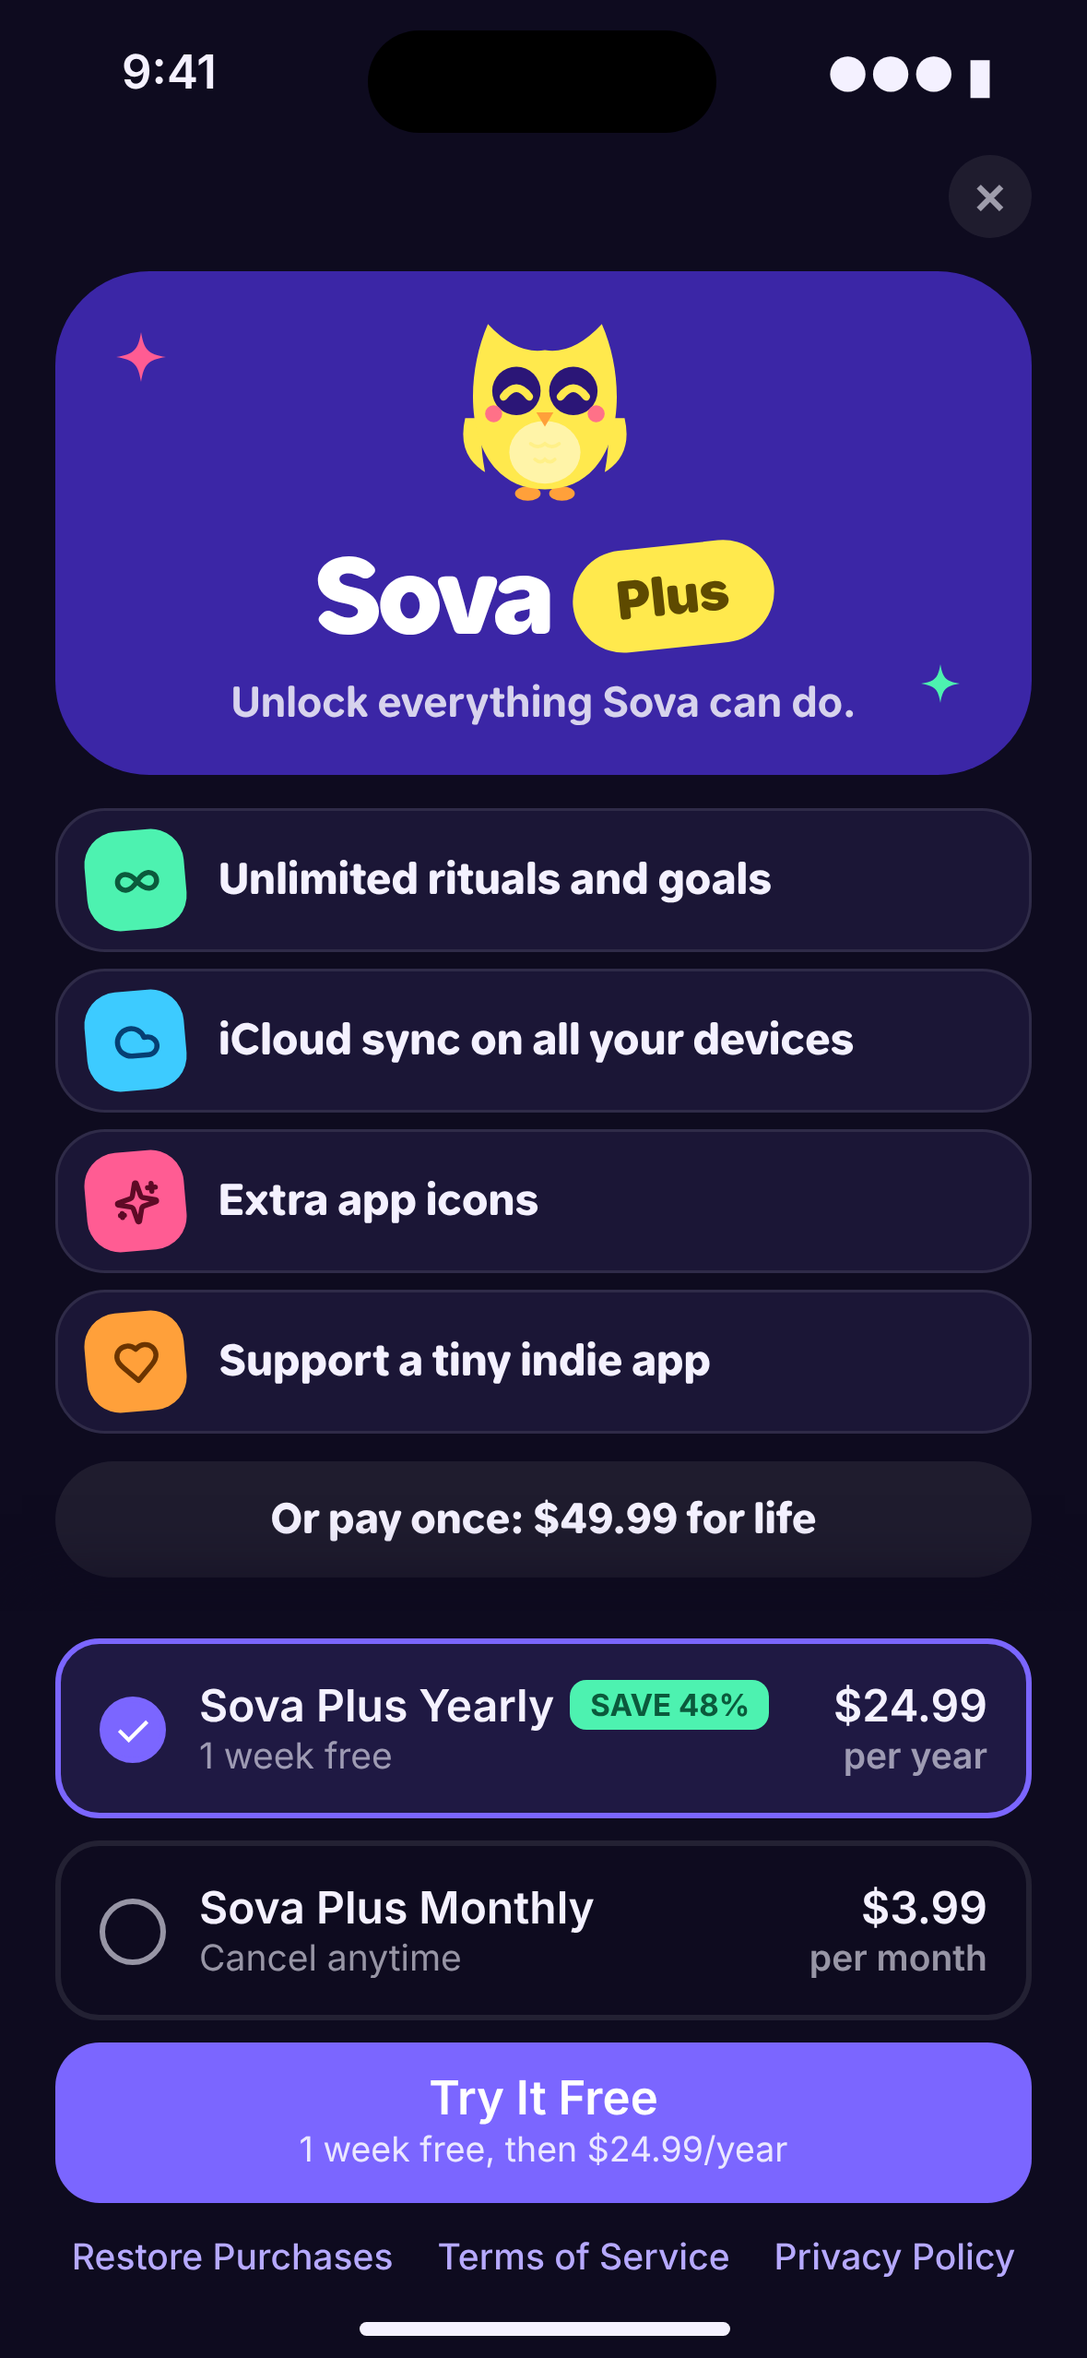
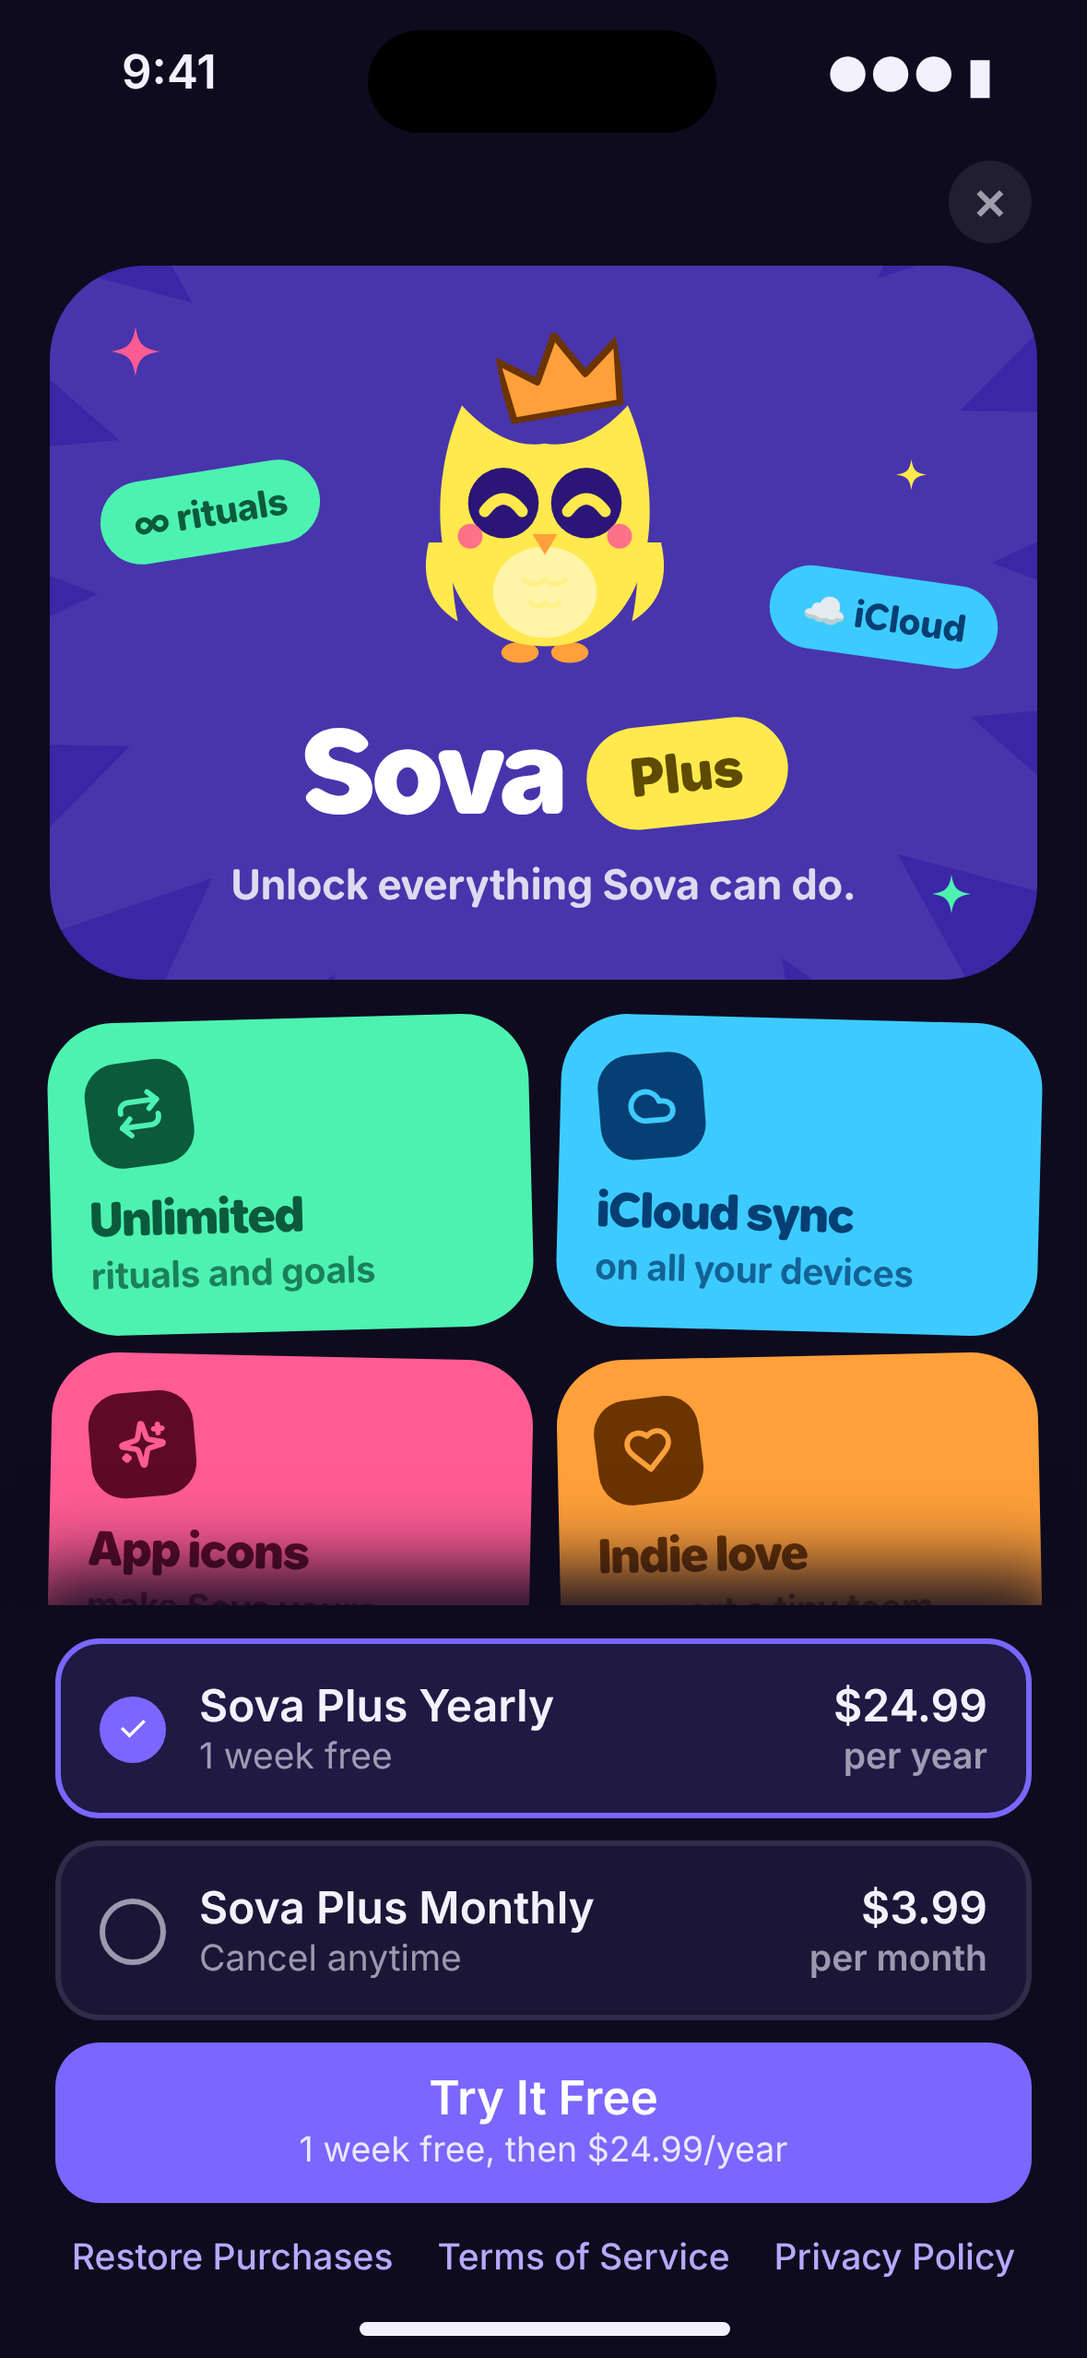
Premium paywall: crowned owl stage, perk tiles, free-week timeline, lifetime card, real trial reminder

diff --git a/Sova/Features/Plus/PlusView.swift b/Sova/Features/Plus/PlusView.swift
@@ -1,21 +1,26 @@
 import SwiftUI
 import StoreKit
 
-/// The Sova Plus paywall: Apple's native subscription controls under an
-/// owl stage and a sticker list of what Plus unlocks.
+/// The Sova Plus paywall: an owl stage with a slowly turning sunburst,
+/// perks as colorful tiles, an honest "how your free week works" timeline,
+/// and Apple's native subscription controls underneath.
 struct PlusView: View {
     var reason: PlusReason = .general
 
     @Environment(PlusStore.self) private var store
     @Environment(\.dismiss) private var dismiss
+    @Environment(\.accessibilityReduceMotion) private var reduceMotion
     @State private var cheers = 0
+    @State private var celebrating = false
+    @State private var spin = false
 
     var body: some View {
         SubscriptionStoreView(productIDs: PlusStore.subscriptionIDs) {
-            header
+            marketing
         }
         .subscriptionStoreControlStyle(.prominentPicker)
         .subscriptionStoreButtonLabel(.multiline)
+        .subscriptionStorePickerItemBackground(Color.surface)
         .storeButton(.visible, for: .restorePurchases)
         .storeButton(.visible, for: .cancellation)
         .storeButton(.visible, for: .policies)
@@ -24,88 +29,255 @@ struct PlusView: View {
         .containerBackground(Color.canvas, for: .subscriptionStoreFullHeight)
         .tint(StickerTone.indigo.fill)
         .onInAppPurchaseCompletion { _, result in
-            if case .success(.success) = result {
+            if case .success(.success(let verification)) = result {
+                celebrating = true
+                if case .verified(let transaction) = verification {
+                    await TrialReminder.scheduleIfNeeded(for: transaction)
+                }
                 await store.refresh()
                 Haptics.celebrate()
                 cheers += 1
-                try? await Task.sleep(for: .milliseconds(700))
+                try? await Task.sleep(for: .milliseconds(1100))
                 dismiss()
             }
         }
-        .onChange(of: store.isPlus) { _, plus in if plus { dismiss() } }
+        // Restoring an earlier purchase: close right away.
+        .onChange(of: store.isPlus) { _, plus in if plus && !celebrating { dismiss() } }
     }
 
-    private var header: some View {
-        VStack(spacing: 18) {
-            ZStack {
-                StickerTone.indigo.fill
-                SparkleDot(color: StickerTone.pink.fill, size: 18)
-                    .frame(maxWidth: .infinity, maxHeight: .infinity, alignment: .topLeading)
-                    .padding(22)
-                SparkleDot(color: StickerTone.mint.fill, size: 14)
-                    .frame(maxWidth: .infinity, maxHeight: .infinity, alignment: .bottomTrailing)
-                    .padding(26)
-                VStack(spacing: 10) {
-                    OwlMark(size: 86, happy: true, bodyColor: StickerTone.yellow.fill, eyeColor: Color(hex: 0x2B1677),
+    private var marketing: some View {
+        VStack(spacing: 14) {
+            stage
+            perks
+            timeline
+            lifetime
+        }
+        .padding(.horizontal, 18)
+        .padding(.top, 8)
+        .padding(.bottom, 4)
+    }
+
+    // MARK: Stage
+
+    private var stage: some View {
+        ZStack {
+            StickerTone.indigo.fill
+
+            StarburstShape(points: 18)
+                .fill(Color.white.opacity(0.07))
+                .frame(width: 560, height: 560)
+                .rotationEffect(.degrees(spin ? 360 : 0))
+                .offset(y: -20)
+
+            SparkleDot(color: StickerTone.pink.fill, size: 18)
+                .frame(maxWidth: .infinity, maxHeight: .infinity, alignment: .topLeading)
+                .padding(22)
+            SparkleDot(color: StickerTone.mint.fill, size: 14)
+                .frame(maxWidth: .infinity, maxHeight: .infinity, alignment: .bottomTrailing)
+                .padding(24)
+            SparkleDot(color: StickerTone.yellow.fill, size: 11)
+                .frame(maxWidth: .infinity, maxHeight: .infinity, alignment: .topTrailing)
+                .padding(.top, 70).padding(.trailing, 40)
+
+            VStack(spacing: 10) {
+                ZStack(alignment: .top) {
+                    OwlMark(size: 96, happy: true, bodyColor: StickerTone.yellow.fill, eyeColor: Color(hex: 0x2B1677),
                             pupilColor: StickerTone.yellow.fill, bellyColor: Color(hex: 0xFFF4A8), celebrate: cheers)
-                        .overlay { SparkleBurst(trigger: cheers) }
-                    HStack(spacing: 8) {
-                        Text("Sova")
-                            .font(.hero(44, weight: .heavy))
-                            .foregroundStyle(.white)
-                        TiltPill(text: "Plus", tone: .yellow, tilt: -6, size: 20)
-                    }
-                    Text(reason.line)
-                        .font(.allo(.subheadline, .bold))
-                        .foregroundStyle(.white.opacity(0.8))
-                        .multilineTextAlignment(.center)
-                        .padding(.horizontal, 24)
+                        .padding(.top, 22)
+                    Crown()
+                        .fill(StickerTone.orange.fill)
+                        .overlay(Crown().stroke(StickerTone.orange.deep, style: StrokeStyle(lineWidth: 2.5, lineJoin: .round)))
+                        .frame(width: 44, height: 30)
+                        .rotationEffect(.degrees(-10))
+                        .offset(x: 6)
                 }
-                .padding(.vertical, 26)
-            }
-            .clipShape(.rect(cornerRadius: 34, style: .continuous))
+                .overlay { SparkleBurst(trigger: cheers, radius: CGSize(width: 150, height: 110)) }
 
-            VStack(spacing: 8) {
-                perk("infinity", String(localized: "Unlimited rituals and goals"), .mint)
-                perk("icloud.fill", String(localized: "iCloud sync on all your devices"), .cyan)
-                perk("app.badge.fill", String(localized: "Extra app icons"), .pink)
-                perk("heart.fill", String(localized: "Support a tiny indie app"), .orange)
-            }
-
-            if let lifetime = store.lifetimeProduct {
-                Button {
-                    Task { await store.buyLifetime() }
-                } label: {
-                    Text("Or pay once: \(lifetime.displayPrice) for life")
-                        .font(.allo(.subheadline, .heavy))
-                        .foregroundStyle(Color.ink)
-                        .frame(maxWidth: .infinity, minHeight: 44)
-                        .background(Color.well, in: .capsule)
+                HStack(spacing: 8) {
+                    Text("Sova")
+                        .font(.hero(42, weight: .heavy))
+                        .tracking(-1.5)
+                        .foregroundStyle(.white)
+                    TiltPill(text: "Plus", tone: .yellow, tilt: -6, size: 20)
                 }
-                .buttonStyle(.pressable)
-                .disabled(store.isPurchasing)
+                Text(reason.line)
+                    .font(.allo(.subheadline, .bold))
+                    .foregroundStyle(.white.opacity(0.82))
+                    .multilineTextAlignment(.center)
+                    .padding(.horizontal, 26)
             }
+            .padding(.vertical, 24)
+
+            // Floating stickers, like the website hero.
+            TiltPill(text: "∞ rituals", tone: .mint, tilt: -9, size: 13)
+                .frame(maxWidth: .infinity, maxHeight: .infinity, alignment: .topLeading)
+                .padding(.top, 74).padding(.leading, 18)
+            TiltPill(text: "☁ iCloud", tone: .cyan, tilt: 8, size: 13)
+                .frame(maxWidth: .infinity, maxHeight: .infinity, alignment: .topTrailing)
+                .padding(.top, 112).padding(.trailing, 14)
         }
-        .padding(.horizontal, 20)
-        .padding(.top, 12)
+        .frame(maxWidth: .infinity)
+        .clipShape(.rect(cornerRadius: 34, style: .continuous))
+        .onAppear {
+            guard !reduceMotion else { return }
+            withAnimation(.linear(duration: 80).repeatForever(autoreverses: false)) { spin = true }
+        }
+        .accessibilityElement(children: .combine)
     }
 
-    private func perk(_ symbol: String, _ text: String, _ tone: StickerTone) -> some View {
-        HStack(spacing: 12) {
-            Image(systemName: symbol)
-                .font(.system(size: 16, weight: .bold))
-                .foregroundStyle(tone.deep)
-                .frame(width: 36, height: 36)
-                .background(tone.fill, in: .rect(cornerRadius: 12, style: .continuous))
-                .rotationEffect(.degrees(-5))
-            Text(text)
-                .font(.allo(size: 16, weight: .heavy, relativeTo: .body))
-                .foregroundStyle(Color.ink)
-            Spacer()
+    // MARK: Perks
+
+    private var perks: some View {
+        LazyVGrid(columns: [GridItem(.flexible(), spacing: 10), GridItem(.flexible(), spacing: 10)], spacing: 10) {
+            perk("infinity", String(localized: "Unlimited"), String(localized: "rituals and goals"), .mint, tilt: -1.5)
+            perk("icloud.fill", String(localized: "iCloud sync"), String(localized: "on all your devices"), .cyan, tilt: 1.5)
+            perk("app.badge.fill", String(localized: "App icons"), String(localized: "make Sova yours"), .pink, tilt: 1.2)
+            perk("heart.fill", String(localized: "Indie love"), String(localized: "support a tiny team"), .orange, tilt: -1.2)
         }
-        .padding(10)
-        .background(Color.surface, in: .rect(cornerRadius: 18, style: .continuous))
-        .overlay(RoundedRectangle(cornerRadius: 18, style: .continuous).strokeBorder(Color.hairline, lineWidth: 1.5))
+    }
+
+    private func perk(_ symbol: String, _ title: String, _ subtitle: String, _ tone: StickerTone, tilt: Double) -> some View {
+        VStack(alignment: .leading, spacing: 10) {
+            Image(systemName: symbol)
+                .font(.system(size: 17, weight: .bold))
+                .foregroundStyle(tone.fill)
+                .frame(width: 38, height: 38)
+                .background(tone.deep, in: .rect(cornerRadius: 12, style: .continuous))
+                .rotationEffect(.degrees(-6))
+            VStack(alignment: .leading, spacing: 1) {
+                Text(title)
+                    .font(.allo(size: 17, weight: .heavy, relativeTo: .headline))
+                    .tracking(-0.4)
+                Text(subtitle)
+                    .font(.allo(size: 13, weight: .bold, relativeTo: .caption))
+                    .opacity(0.75)
+            }
+        }
+        .foregroundStyle(tone.deep)
+        .frame(maxWidth: .infinity, alignment: .leading)
+        .padding(14)
+        .background(tone.fill, in: .rect(cornerRadius: 24, style: .continuous))
+        .rotationEffect(.degrees(tilt))
         .accessibilityElement(children: .combine)
+    }
+
+    // MARK: Free week timeline
+
+    private var timeline: some View {
+        VStack(alignment: .leading, spacing: 0) {
+            MonoCaps(String(localized: "How your free week works"))
+                .padding(.bottom, 12)
+            step(symbol: "lock.open.fill", tone: .yellow, day: String(localized: "Today"),
+                 text: String(localized: "Everything in Plus unlocks."), last: false)
+            step(symbol: "bell.fill", tone: .lilac, day: String(localized: "Day 5"),
+                 text: String(localized: "We'll remind you the trial is ending."), last: false)
+            step(symbol: "star.fill", tone: .mint, day: String(localized: "Day 7"),
+                 text: String(localized: "Your yearly plan starts. Cancel anytime before."), last: true)
+        }
+        .padding(16)
+        .background(Color.surface, in: .rect(cornerRadius: 24, style: .continuous))
+        .overlay(RoundedRectangle(cornerRadius: 24, style: .continuous).strokeBorder(Color.hairline, lineWidth: 1.5))
+    }
+
+    private func step(symbol: String, tone: StickerTone, day: String, text: String, last: Bool) -> some View {
+        HStack(alignment: .top, spacing: 12) {
+            VStack(spacing: 0) {
+                Image(systemName: symbol)
+                    .font(.system(size: 13, weight: .bold))
+                    .foregroundStyle(tone.deep)
+                    .frame(width: 30, height: 30)
+                    .background(tone.fill, in: .circle)
+                if !last {
+                    Capsule()
+                        .fill(Color.well)
+                        .frame(width: 4, height: 18)
+                        .padding(.vertical, 3)
+                }
+            }
+            VStack(alignment: .leading, spacing: 1) {
+                Text(day)
+                    .font(.allo(size: 15, weight: .heavy, relativeTo: .subheadline))
+                    .foregroundStyle(Color.ink)
+                Text(text)
+                    .font(.allo(size: 14, weight: .medium, relativeTo: .footnote))
+                    .foregroundStyle(Color.inkSecondary)
+            }
+            .padding(.top, 5)
+        }
+        .accessibilityElement(children: .combine)
+    }
+
+    // MARK: Lifetime
+
+    @ViewBuilder
+    private var lifetime: some View {
+        if let product = store.lifetimeProduct {
+            Button {
+                Task {
+                    celebrating = true
+                    if await store.buyLifetime() {
+                        Haptics.celebrate()
+                        cheers += 1
+                        try? await Task.sleep(for: .milliseconds(1100))
+                        dismiss()
+                    } else {
+                        celebrating = false
+                    }
+                }
+            } label: {
+                HStack(spacing: 12) {
+                    Text("∞")
+                        .font(.hero(24, weight: .heavy))
+                        .foregroundStyle(StickerTone.yellow.deep)
+                        .frame(width: 40, height: 40)
+                        .background(StickerTone.yellow.fill, in: .rect(cornerRadius: 13, style: .continuous))
+                        .rotationEffect(.degrees(-6))
+                    VStack(alignment: .leading, spacing: 1) {
+                        HStack(spacing: 6) {
+                            Text("Lifetime")
+                                .font(.allo(size: 16, weight: .heavy, relativeTo: .headline))
+                            Text("PAY ONCE")
+                                .font(.allo(size: 10, weight: .heavy, relativeTo: .caption2))
+                                .tracking(1)
+                                .padding(.horizontal, 6)
+                                .padding(.vertical, 3)
+                                .background(StickerTone.mint.fill, in: .capsule)
+                                .foregroundStyle(StickerTone.mint.deep)
+                        }
+                        Text("Keep Plus forever, no subscription")
+                            .font(.allo(size: 13, weight: .medium, relativeTo: .caption))
+                            .foregroundStyle(Color.inkSecondary)
+                    }
+                    Spacer(minLength: 4)
+                    Text(product.displayPrice)
+                        .font(.allo(size: 17, weight: .heavy, relativeTo: .headline))
+                    Image(systemName: "chevron.right")
+                        .font(.system(size: 12, weight: .heavy))
+                        .foregroundStyle(Color.inkTertiary)
+                }
+                .foregroundStyle(Color.ink)
+                .padding(12)
+                .background(Color.surface, in: .rect(cornerRadius: 22, style: .continuous))
+                .overlay(RoundedRectangle(cornerRadius: 22, style: .continuous).strokeBorder(Color.hairline, lineWidth: 1.5))
+            }
+            .buttonStyle(.pressable)
+            .disabled(store.isPurchasing)
+        }
+    }
+}
+
+/// A little crown for the Plus owl.
+private struct Crown: Shape {
+    func path(in r: CGRect) -> Path {
+        var p = Path()
+        p.move(to: CGPoint(x: r.minX + r.width * 0.06, y: r.maxY))
+        p.addLine(to: CGPoint(x: r.minX, y: r.minY + r.height * 0.22))
+        p.addLine(to: CGPoint(x: r.minX + r.width * 0.3, y: r.minY + r.height * 0.55))
+        p.addLine(to: CGPoint(x: r.midX, y: r.minY))
+        p.addLine(to: CGPoint(x: r.maxX - r.width * 0.3, y: r.minY + r.height * 0.55))
+        p.addLine(to: CGPoint(x: r.maxX, y: r.minY + r.height * 0.22))
+        p.addLine(to: CGPoint(x: r.maxX - r.width * 0.06, y: r.maxY))
+        p.closeSubpath()
+        return p
     }
 }

diff --git a/Sova/Support/PlusStore.swift b/Sova/Support/PlusStore.swift
@@ -1,5 +1,6 @@
 import StoreKit
 import Observation
+import UserNotifications
 
 /// Why the paywall opened, so the owl can say something that fits.
 enum PlusReason: String, Hashable {
@@ -47,7 +48,10 @@ final class PlusStore {
     init() {
         updates = Task { [weak self] in
             for await result in Transaction.updates {
-                if case .verified(let transaction) = result { await transaction.finish() }
+                if case .verified(let transaction) = result {
+                    await TrialReminder.scheduleIfNeeded(for: transaction)
+                    await transaction.finish()
+                }
                 await self?.refresh()
             }
         }
@@ -92,5 +96,28 @@ final class PlusStore {
     func restore() async {
         try? await AppStore.sync()
         await refresh()
+    }
+}
+
+/// The paywall promises a heads-up before a free trial turns into a paid
+/// plan. This keeps that promise: one notification, two days before.
+enum TrialReminder {
+    static let id = "sova.trial.reminder"
+
+    static func scheduleIfNeeded(for transaction: Transaction) async {
+        guard transaction.offer?.type == .introductory,
+              let end = transaction.expirationDate else { return }
+        let fire = end.addingTimeInterval(-2 * 86_400)
+        guard fire > .now else { return }
+        await TaskAlerts.requestPermissionIfNeeded()
+
+        let content = UNMutableNotificationContent()
+        content.title = String(localized: "Your Sova Plus trial ends in 2 days")
+        content.body = String(localized: "Nothing to do if you'd like to keep Plus. You can cancel anytime in Settings.")
+        content.sound = .default
+        let trigger = UNTimeIntervalNotificationTrigger(timeInterval: fire.timeIntervalSinceNow, repeats: false)
+        let center = UNUserNotificationCenter.current()
+        center.removePendingNotificationRequests(withIdentifiers: [id])
+        try? await center.add(UNNotificationRequest(identifier: id, content: content, trigger: trigger))
     }
 }
